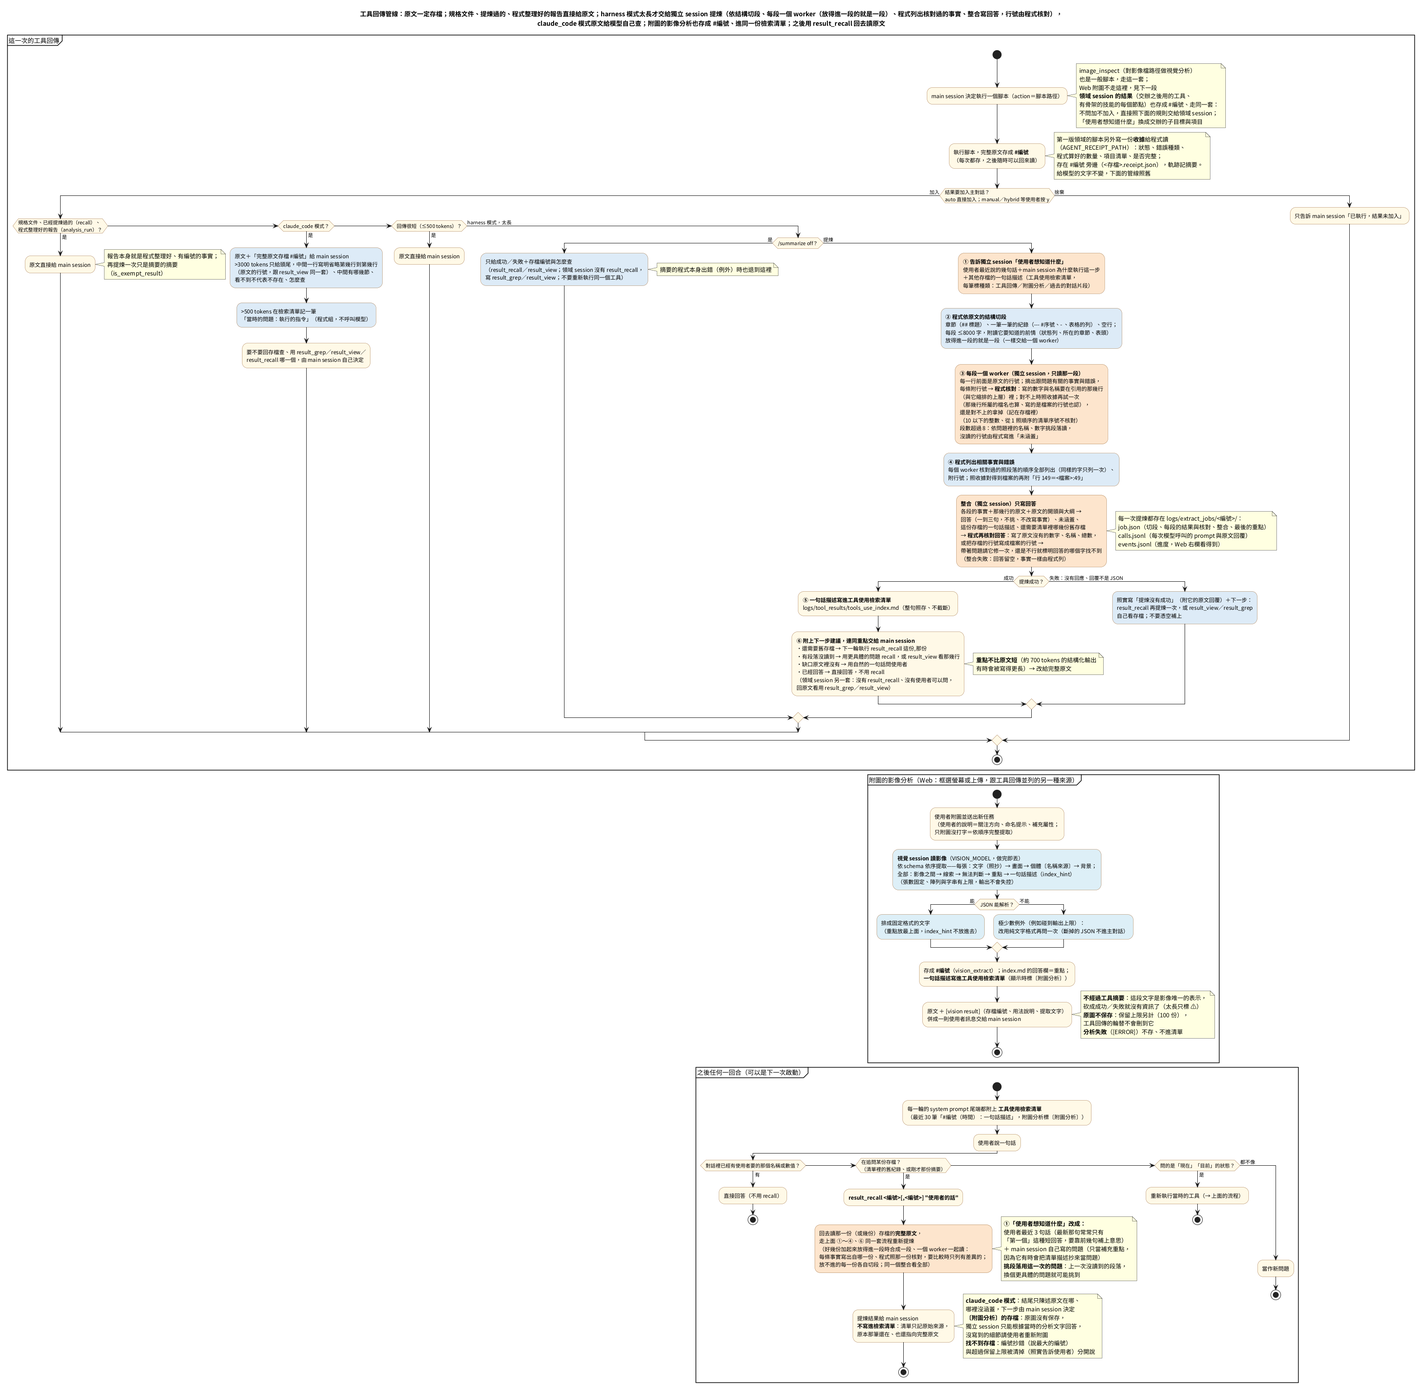
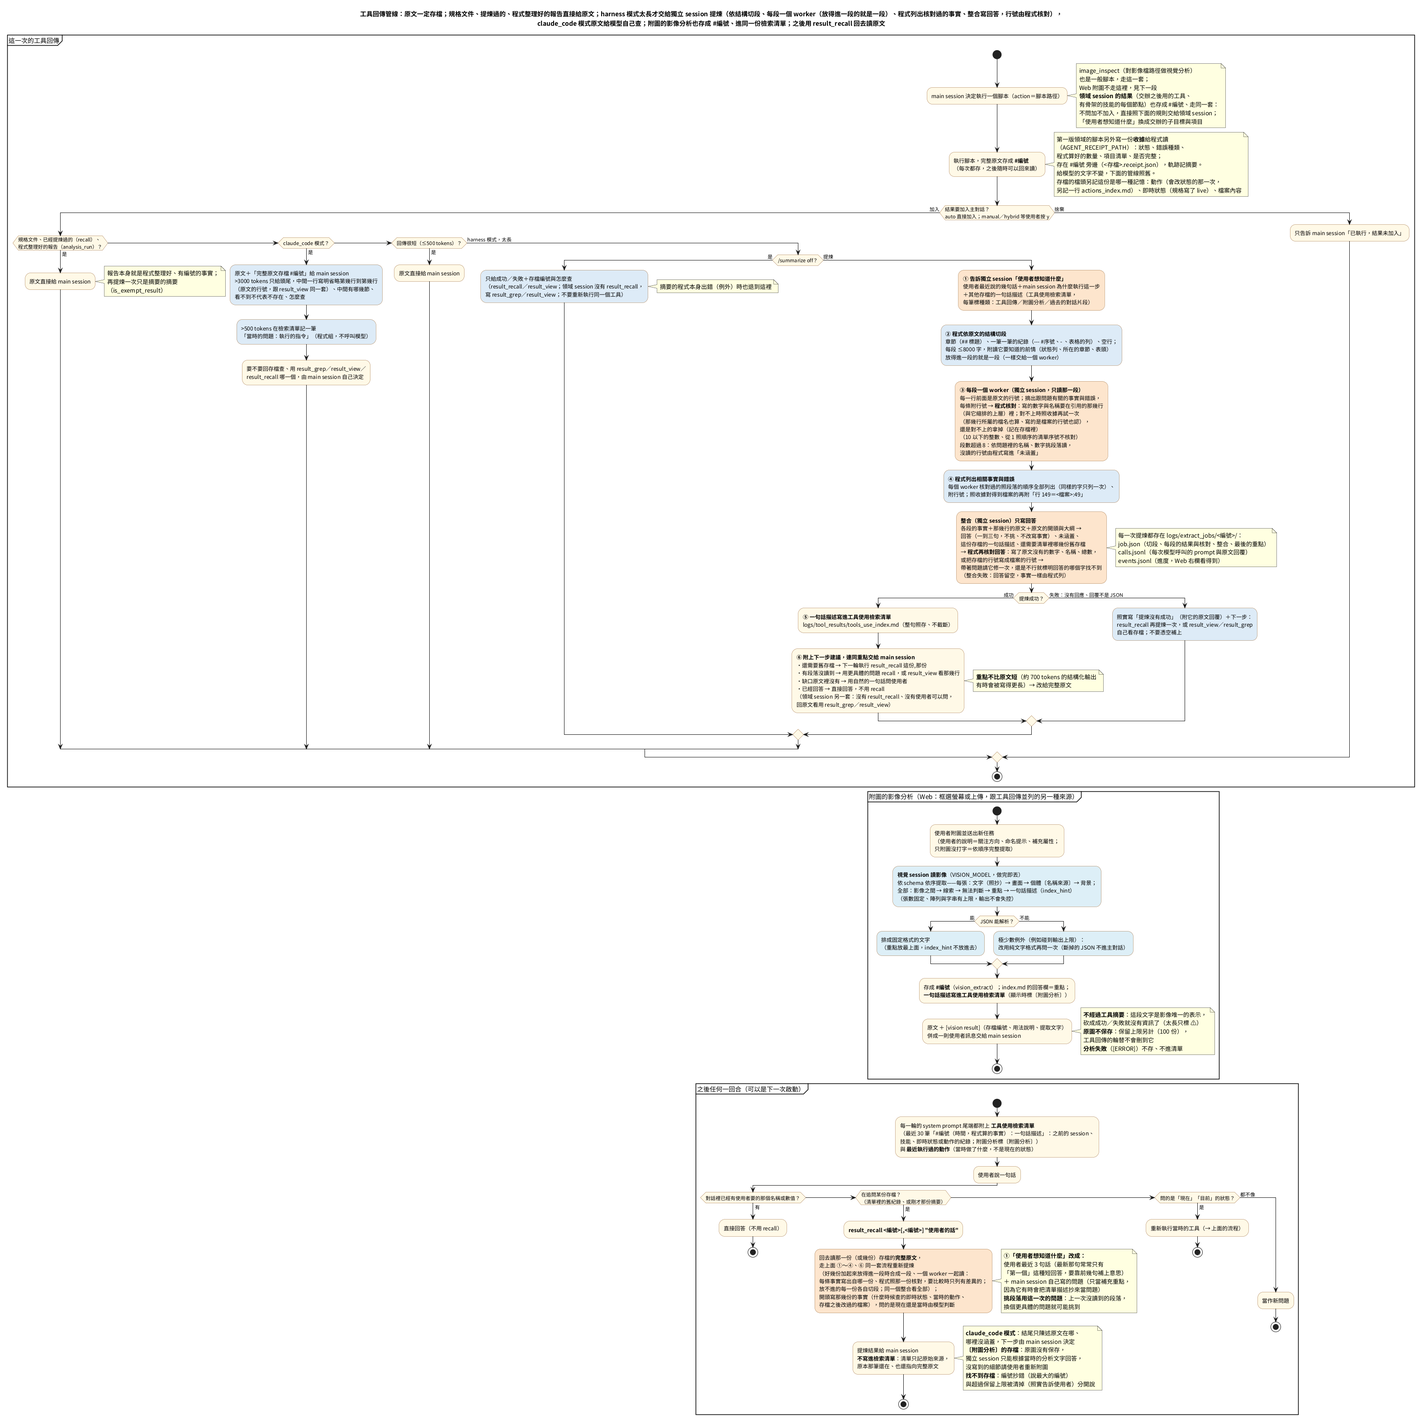
docs: Architecture docs and diagrams for rounds 42-43; phase-end plan (round 44)
- Architecture doc: reply_check chain, archive memory kinds and
  actions_index.md, program-computed facts in the index and read-backs,
  recent-actions block, changes_state, domain-session stale-citation check,
  module line counts, constants ACTIONS_INDEX_NAME / ACTIONS_SHOW.
- Diagrams re-rendered with local PlantUML: tool-result pipeline, turn state
  machine, overview, prompts mapping, question-to-answer flow; captions in
  doc/README.md.
- Framework log: round-44 phase-end plan (decided).

diff --git a/doc/README.md b/doc/README.md
@@ -20,12 +20,12 @@
 
 | 圖 | 來源 | 內容 |
 |---|---|---|
-| ![架構](images/AI_agent_harness的說明.png) | `diagrams/AI_agent_harness的說明.puml` | 元件與資料流；`vision/`（框選／上傳 → 結構化提取 → `[vision result]`）與使用者介面、SkillAgent、技能、偽技能（result_recall、analysis_run）、一次性 session（提煉、滾動摘要、視覺）、`logs/` 底下各種存檔（含收據 `<存檔>.receipt.json`、領域 session 的 `domain_jobs/` 與低階的 `edg_jobs/`）、確認關卡的範圍；交辦：主 session 把子目標與要回答的項目（每一項是使用者的原話）連同前文交給領域 session（`domain_session.py`）→ 程式核對 → 選領域、一次用一個技能（只寫名稱，下一輪填程式給的參數表單；有骨架的技能由 `composite.py` 照骨架與回退、`edg.py` 執行；工具走主 session 同一條路）、太長的結果分段提煉、決定回報或再選 → 報告 #編號交回、停在確認關卡時程式直接問使用者 |
-| ![一回合](images/AI_agent_harness的狀態轉移.png) | `diagrams/AI_agent_harness的狀態轉移.puml` | 一回合的狀態機；`/analyze` 直接指定；確認關卡擋哪些；Dispatch 的偽技能；交辦（5d：整理（三欄只留使用者說過的原話、問句整句放進項目）與核對（最新這一則的每一句都放進了一欄）、交給領域 session（附前文：這一則之前的對話；背景與限制不交下去）、再交辦時帶著上一次的經過、報告存成 #編號交回）、領域 session（5f：每一輪回一個狀態——選領域、用一個技能、回報；選了技能的下一輪填參數表單、有骨架的技能的合約與 need、太長的結果提煉、上限與擋重複、回報的核對）與領域 session 停在確認關卡（5e：程式轉問、接回同一步）；回覆寫到長度上限被截斷的重問（3）；回答前的核對（3c：沒動作卻說做了、依數據分析的報告回答、依交辦的報告回答的 answers（含報告的編號與數字沒漏），沒過的交回修一次；依交辦的報告回答由程式照項目排、附出處那一行的原文）；附圖時的視覺提取（1b），以及附圖分析在 prompt、壓縮、下一句話裡的位置 |
-| ![從問題到答案](images/從問題到答案的流程.png) | `diagrams/從問題到答案的流程.puml` | 單一迴圈的動態流程（2026-11-23，泳道的活動圖）：使用者 → 主 session 交辦（子目標、背景、限制與要回答的項目，每一筆是使用者的原話）→ 程式整理與核對交辦（只留原話、問句整句放進項目、每一句都放進了一欄）→ 領域 session（附前文）選領域（程式載入這些領域的技能清單）→ 每一輪用一個技能（只寫名稱，下一輪填程式給的參數表單）：有骨架的技能（每個參數一欄、附原文，程式核對、沒過的重填一次；`composite.py` 照〈骨架〉排圖、`edg.py` 執行工具節點、〈回退〉加節點或換技能，缺參數、要縮小範圍時 need 交回領域 session；程式照收據算的彙整存成 #編號）或工具（args 寫成 JSON、照抄佔位符的交回重填；確認關卡、存檔 #編號、收據）→ 太長的結果分段提煉（錨點是子目標、項目與使用者前面的話）→ 看了結果再用技能、再選領域或回報（answers，程式核對）→ 報告存成 #編號交回 → 主 session 照報告一項一項回答（或只帶沒答到的再交辦）→ 程式核對 answers（含報告的編號與數字沒漏）、照項目排好給使用者；會改狀態的工具停下來由程式問使用者；藍＝程式、橘＝模型、綠＝程式核對、黃＝回退、紅＝問使用者、紫＝存檔 |
-| ![工具回傳管線](images/AI_agent_harness的工具回傳管線.png) | `diagrams/AI_agent_harness的工具回傳管線.puml` | 原文存檔（第一版領域的腳本另外寫收據給程式讀）→ 規格文件、提煉過的、程式整理好的報告（數據分析）直接給原文 → 太長的提煉（程式切段 → 每段一個 worker（程式核對）→ 程式列出核對過的事實、整合只寫回答，程式核對回答與行號；照收據對得到檔案的事實附 `檔案:行號`、回答把存檔的行號寫成檔案的行號交回修）→ 檢索清單 → result_recall（好幾份加起來放得進一段時合成一段、一個 worker 一起讀）；退路（`/summarize off`、提煉沒成功、重點不比原文短）；領域 session 的結果也走這一套（錨點換成交辦的子目標與項目，下一步建議只寫它能用的 result_grep／result_view）；中段是附圖的影像分析（提取 → 存成 #編號 → 〔附圖分析〕進清單 → 併進訊息），同一套 recall |
+| ![架構](images/AI_agent_harness的說明.png) | `diagrams/AI_agent_harness的說明.puml` | 元件與資料流；`vision/`（框選／上傳 → 結構化提取 → `[vision result]`）與使用者介面、SkillAgent、技能、偽技能（result_recall、analysis_run）、一次性 session（提煉、滾動摘要、視覺）、`logs/` 底下各種存檔（含收據 `<存檔>.receipt.json`、檔頭記的記憶種類與動作的紀錄 `actions_index.md`、領域 session 的 `domain_jobs/` 與低階的 `edg_jobs/`）、確認關卡的範圍；交辦：主 session 把子目標與要回答的項目（每一項是使用者的原話）連同前文交給領域 session（`domain_session.py`）→ 程式核對 → 選領域、一次用一個技能（只寫名稱，下一輪填程式給的參數表單；有骨架的技能由 `composite.py` 照骨架與回退、`edg.py` 執行；工具走主 session 同一條路）、太長的結果分段提煉、決定回報或再選 → 報告 #編號交回、停在確認關卡時程式直接問使用者 |
+| ![一回合](images/AI_agent_harness的狀態轉移.png) | `diagrams/AI_agent_harness的狀態轉移.puml` | 一回合的狀態機；`/analyze` 直接指定；確認關卡擋哪些；Dispatch 的偽技能；交辦（5d：整理（三欄只留使用者說過的原話、問句整句放進項目）與核對（最新這一則的每一句都放進了一欄）、交給領域 session（附前文：這一則之前的對話；背景與限制不交下去）、再交辦時帶著上一次的經過、報告存成 #編號交回）、領域 session（5f：每一輪回一個狀態——選領域、用一個技能、回報；選了技能的下一輪填參數表單、有骨架的技能的合約與 need、太長的結果提煉、上限與擋重複、回報的核對——出處是這一回合之前的即時狀態、動作或改過的檔案時附事實交回）與領域 session 停在確認關卡（5e：程式轉問、接回同一步）；回覆寫到長度上限被截斷的重問（3）；回答前的核對（3c：沒動作卻說做了、依數據分析的報告回答、依交辦的報告回答的 answers（含報告的編號與數字沒漏），沒過的交回修一次；依交辦的報告回答由程式照項目排、附出處那一行的原文；引用之前存的即時狀態或動作不交回，模型照清單與讀回的事實判斷）；system prompt 的檢索清單附程式算的事實、另列最近執行過的動作（2）；附圖時的視覺提取（1b），以及附圖分析在 prompt、壓縮、下一句話裡的位置 |
+| ![從問題到答案](images/從問題到答案的流程.png) | `diagrams/從問題到答案的流程.puml` | 單一迴圈的動態流程（2026-11-23，泳道的活動圖）：使用者 → 主 session 交辦（子目標、背景、限制與要回答的項目，每一筆是使用者的原話）→ 程式整理與核對交辦（只留原話、問句整句放進項目、每一句都放進了一欄）→ 領域 session（附前文）選領域（程式載入這些領域的技能清單）→ 每一輪用一個技能（只寫名稱，下一輪填程式給的參數表單）：有骨架的技能（每個參數一欄、附原文，程式核對、沒過的重填一次；`composite.py` 照〈骨架〉排圖、`edg.py` 執行工具節點、〈回退〉加節點或換技能，缺參數、要縮小範圍時 need 交回領域 session；程式照收據算的彙整存成 #編號）或工具（args 寫成 JSON、照抄佔位符的交回重填；確認關卡、存檔 #編號、收據）→ 太長的結果分段提煉（錨點是子目標、項目與使用者前面的話）→ 看了結果再用技能、再選領域或回報（answers，程式核對；出處是之前存的即時狀態、動作或改過的檔案時附事實交回）→ 報告存成 #編號交回 → 主 session 照報告一項一項回答（或只帶沒答到的再交辦）→ 程式核對 answers（含報告的編號與數字沒漏）、照項目排好給使用者；會改狀態的工具停下來由程式問使用者；藍＝程式、橘＝模型、綠＝程式核對、黃＝回退、紅＝問使用者、紫＝存檔 |
+| ![工具回傳管線](images/AI_agent_harness的工具回傳管線.png) | `diagrams/AI_agent_harness的工具回傳管線.puml` | 原文存檔（檔頭記記憶的種類：動作、即時狀態、檔案內容；第一版領域的腳本另外寫收據給程式讀）→ 規格文件、提煉過的、程式整理好的報告（數據分析）直接給原文 → 太長的提煉（程式切段 → 每段一個 worker（程式核對）→ 程式列出核對過的事實、整合只寫回答，程式核對回答與行號；照收據對得到檔案的事實附 `檔案:行號`、回答把存檔的行號寫成檔案的行號交回修）→ 檢索清單（每一行附程式算的事實：之前的 session、技能、即時狀態或動作的紀錄；另列最近執行過的動作）→ result_recall（好幾份加起來放得進一段時合成一段、一個 worker 一起讀；開頭寫那幾份的事實）；退路（`/summarize off`、提煉沒成功、重點不比原文短）；領域 session 的結果也走這一套（錨點換成交辦的子目標與項目，下一步建議只寫它能用的 result_grep／result_view）；中段是附圖的影像分析（提取 → 存成 #編號 → 〔附圖分析〕進清單 → 併進訊息），同一套 recall |
 | ![數據分析的流程](images/數據診斷的流程.png) | `diagrams/數據診斷的流程.puml` | 數據分析（事實報告）的完整流程（活動圖）：收到問題（交辦給領域 session 用 analysis_run，或 `/analyze` 直接指定）→ 資料預備與事實（超過 3 分鐘先切；字串裡的 JSON 展開成 Key；程式量全部 Topic 的全部 Key、整理成有編號的事實）→ 重點（程式照規則寫：每個重要的時間點一則）→ 報告（交辦時原樣附在領域 session 的報告裡）→ 主對話依報告回答與程式的核對（之後的回合也核對；要細看再交辦）；藍＝程式、橘＝模型、綠＝程式核對，底部是程式做的與模型做的；第九輪的流程圖在 `archive/root_cause_reference/doc/` |
-| ![prompts 與流程的對應](images/prompts與流程的對應.png) | `diagrams/prompts與流程的對應.puml` | 給模型的字都在 `prompts/`：主對話（AGENT.md、context_modes/、Memory.md、harness/，含 `system_prompt.md` 的「交辦」一節、交辦的結果與 answers 沒有通過核對的說明 `domain.md`）與各種獨立 session（summary/、extract/、vision/、低階執行器的第 1 級修正 edg/、領域 session `domain/session.md`；領域 session 的提煉與截斷說明 `followup.md` 的 `sub_*`、`reduced_sub`）各用哪些檔案，誰組 prompt、輸出的 schema（主對話的回覆在有交辦的報告時多 answers、action 一律最後；領域 session 每一輪一個 state：domains／skill／report，選了技能的下一輪填那個技能的參數表單）；`skills_system/` 的 SKILLS.md（拿掉領域的工具）、`DOMAIN.md`（給程式讀）、技能規格、領域與有骨架的技能（領域的說明也組進主對話的「交辦」一節；說明、〈什麼時候用〉、參數給領域 session，〈骨架〉〈回退〉給程式）也是模型會讀的；留在程式裡的只有程式的輸出（工具結果、報告、[ERROR]）與程式認的標記；各 session 用哪個模型 |
+| ![prompts 與流程的對應](images/prompts與流程的對應.png) | `diagrams/prompts與流程的對應.puml` | 給模型的字都在 `prompts/`：主對話（AGENT.md、context_modes/、Memory.md、harness/，含 `system_prompt.md` 的「交辦」一節、交辦的結果與 answers 沒有通過核對的說明 `domain.md`、檢索清單每一行的事實與最近執行過的動作 `tool_use_index.md`）與各種獨立 session（summary/、extract/、vision/、低階執行器的第 1 級修正 edg/、領域 session `domain/session.md`；領域 session 的提煉與截斷說明 `followup.md` 的 `sub_*`、`reduced_sub`）各用哪些檔案，誰組 prompt、輸出的 schema（主對話的回覆在有交辦的報告時多 answers、action 一律最後；領域 session 每一輪一個 state：domains／skill／report，選了技能的下一輪填那個技能的參數表單）；`skills_system/` 的 SKILLS.md（拿掉領域的工具）、`DOMAIN.md`（給程式讀）、技能規格、領域與有骨架的技能（領域的說明也組進主對話的「交辦」一節；說明、〈什麼時候用〉、參數給領域 session，〈骨架〉〈回退〉給程式）也是模型會讀的；留在程式裡的只有程式的輸出（工具結果、報告、[ERROR]）與程式認的標記；各 session 用哪個模型 |
 | ![py_usage](images/複合技能_py_usage.png) | `diagrams/複合技能_py_usage.puml` | 複合技能 py_usage（2026-11-23）：Python 的名稱用在哪裡：搜 .py（整個字）→ AST 分出定義、呼叫、import；回退：0 筆先看範圍裡的 C++ 檔（有就換成 cpp_symbol），沒有就搜整個工作目錄；太多行、太多檔案時 need 交回領域 session 縮小範圍（附各子目錄的筆數）；結果交回領域 session |
 | ![count_in_scope](images/複合技能_count_in_scope.png) | `diagrams/複合技能_count_in_scope.puml` | 複合技能 count_in_scope（2026-11-23）：範圍裡的數量：檔名符合的檔案（find_file）、每個檔案提到一段文字的筆數（search_text）；數量是腳本算好的（files 含 / 時兩個節點都比對整個路徑）；兩個參數都沒寫、搜尋逾時時 need 交回領域 session |
 | ![find_lines](images/複合技能_find_lines.png) | `diagrams/複合技能_find_lines.puml` | 複合技能 find_lines（2026-11-23）：提到一段文字的每一行與前後兩行、每個檔案幾筆（search_text）；逾時時 need 交回領域 session 縮小範圍 |

diff --git a/docs/框架討論紀錄.md b/docs/框架討論紀錄.md
@@ -90,6 +90,7 @@
 | 2026-11-27 | 第 42 輪：比較完 | 規則 1 ✅；規則 2：current_state_rerun e4b 9／15 → 6／6（清單的事實修好的），cross_session_recall e4b 1／6、guard_dispatch e4b 3／6 ❌（前者是主 session 回答的核對讓 e4b 把問過去的當成問現在，後者不是這一輪）；規則 4：禁止動作 1 次（保留組）❌。選項在第 4 節〈存檔分讀取型與動作型的比較〉（建議（F1）拿掉主 session 回答的核對），等使用者決定 |
 | 2026-11-27 | 第 43 輪（定案） | 使用者「1.可以 2.都依你建議」：第 42 輪 commit 成 89ffc9b（分支 `claude/round-42`，main 不動）；做（F1）拿掉主 session 回答的核對，留（D1）（D2）與領域 session 回報的核對（做法與開跑前寫好的規則在第 2 節） |
 | 2026-11-27 | 第 43 輪：比較完 | 規則都成立：e4b cross_session_recall 1／6 → 6／6、guard_dispatch 6／6、current_state_rerun 5／6；26b 都過；維運 32／36、11／12、12／21、禁止動作 0。使用者另外問 GPT 的討論還可以加什麼：建議（1）動作重做時提醒、（2）清單寫查了什麼（先量），在第 4 節〈工具執行的記憶還可以加的〉。等使用者：架構說明與圖、commit、併回 main |
+| 2026-11-27 | 第 44 輪（定案）：階段結束 | 使用者「1.可以 2.依你建議 3.依你建議」：第 43 輪 commit 成 9f3eee9；架構說明與 5 張圖照第 42、43 輪改；做（P）階段結束——提煉、主對話、第 1 級修正真模型全跑，真實專案各再 2 次（`af2`、`af3`），維運與真實專案 `af1` 沿用第 43 輪（第 2 節）；之後做 GPT 討論的（1）、量（2） |
 
 ## 1. 方向（2026-11-23 使用者決定）
 
@@ -743,6 +744,14 @@
   3. 維運 26b 3 次：主要、保留、調查與報告各自 3 次合計不低於基準（f6bb7d7：33／36、10／12、10／21）減 2；禁止動作 0 次（保留組的也算，另外列出）。
   4. 真實專案兩個模型各 1 次，只列出。
   1、2、3 成立：留著，先問架構說明與圖、併回 main；不成立：查清楚、記下來、討論。
+
+2026-11-27 第 44 輪（定案），使用者：架構說明與圖「可以」、commit「依你建議」、下一步「依你建議」——第 43 輪 commit 成 9f3eee9（分支 `claude/round-42`）；做（P）階段結束：
+- 跑：9f3eee9 的 `phase_check.py --model --only extract,chat,edg`；真實專案兩個模型各 2 次（`af2`、`af3`），加上第 43 輪的 `af1` 共 3 次。沿用同一份程式跑過的維運
+  `af1～af3`（第 43 輪；之後只改了文件）。凍結的工具（`--tools`）照之前的階段結束不跑：第 42 輪只給 14 個凍結工具的規格加了給程式看的 `live`（給模型看時拿掉），工具本身沒改。
+- 比：每一項 `--compare` 跟現在的基準（f6bb7d7）比，要注意的項目逐一打開紀錄、寫進設計筆記。
+- 存：真模型的基準（repo、ops、chat、edg、extract）換成這次的，標籤「單一迴圈第 43 輪之後的階段結束（9f3eee9）」；基準的說明（evals/baselines/README.md）的來源一起改。
+- 文件：架構說明與 5 張圖照第 42、43 輪改（存檔的種類、清單與讀回的事實、最近執行過的動作、回答前的核對串、領域 session 回報的核對、規格的 `live`）；commit 之後 main 快轉。
+- 之後：第 4 節〈工具執行的記憶還可以加的〉的（1）動作重做時提醒（先寫做法與規則）、同時量（2）清單寫查了什麼。
 
 ## 3. 步驟
 
@@ -2618,3 +2627,9 @@
   沒過的 2 次（current_state_rerun、memory_stale_state 各 1）打開看都交辦重查了，是領域 session 選了 docker_ctl status；cross_session_recall 6 次都讀 #501 回答，2 次把內容說成
   「目前」。數字在設計筆記 2.86。
 - **接下來**：照規則留著（F1）；等使用者：架構說明與圖（第 42、43 輪）、commit、併回 main、下一步的方向。
+
+### 2026-11-27 第 44 輪（定案）：階段結束（第 43 輪之後）
+- **使用者**：「1.可以 2.依你建議 3.依你建議」——架構說明與圖可以更新；第 43 輪 commit、文件改完再 commit、main 快轉；下一步先做階段結束，再做 GPT 討論的（1）、量（2）。
+- **做的**：第 43 輪 commit 成 9f3eee9（分支 `claude/round-42`）。階段結束 07:33 開跑（第 2 節〈第 44 輪（定案）〉）。評測跑的時候改了架構說明（一回合的第 9 步、存檔、檢索清單與讀回的
+  事實、確認關卡、模組表、system prompt 的第 9 項、存在哪裡、常數、要改哪裡、評測、數據分析的核對串、領域 session 回報的核對）、doc/README 的圖說明與 5 張圖（工具回傳管線、
+  狀態轉移、說明、prompts 與流程的對應、從問題到答案的流程；本機 PlantUML 產生、打開看過）。
